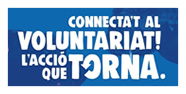
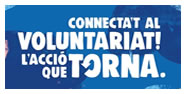
Finalitzats els darrers canvis i modificacions a aplicar al nou butlletí A l'Abast.

diff --git a/templates/node/node--butlleti_abast_new.tpl.php b/templates/node/node--butlleti_abast_new.tpl.php
@@ -2078,6 +2078,92 @@
 				<?php endforeach; ?>
 			<?php endif; ?>
 
+			<!-- Section: "Directe a" -->
+
+			<tr>
+				<td>
+					<table width="100%" border="0" cellspacing="0" cellpadding="0" align="left" class="content-news-text">
+						<tbody>
+							<tr>
+								<td>
+									<table width="100%" border="0" cellpadding="0" cellspacing="0">
+										<tbody>
+											<tr>
+												<td class="content-text">
+													<table border="0" cellspacing="0" cellpadding="0">
+														<tbody>
+															<tr>
+																<td vspace="0" style="padding: 20px 0px 0px 20px;">
+																	<h2 style="font-family: Open Sans, sans-serif; color: #333; font-size: 20px; text-decoration: none; font-weight: 600; padding-bottom: 0; margin-bottom: 0;">Directe a </h2>
+																</td>
+															</tr>
+															<tr>
+																<td>
+																	<table>
+																		<tbody>
+																			<tr>
+																				<td>
+																					<ul style="padding-left: 50px; padding-bottom: 15px;" class="download_pdf">
+																						<li style="color: #671013; margin-top: 15px">
+																							<!-- Auditoria Accesibilidad - Se inserta un "span" oculto en los enlaces que abren en una ventana nueva para que quede indicado -->
+																							<a style="font-family: Open Sans, sans-serif; font-size: 16px; color: #671013; font-weight: 600; text-decoration: none;" href="https://voluntariat.gencat.cat" target="_blank">El nostre web</a>
+																							<br>
+																							<span style="font-family: Open Sans, sans-serif; font-size: 14px; color: #333; font-weight: 400">
+																								<p>voluntariat.gencat.cat</p>
+																							</span>
+																						</li>
+																						<li style="color: #671013; margin-top: 15px">
+																							<!-- Auditoria Accesibilidad - Se inserta un "span" oculto en los enlaces que abren en una ventana nueva para que quede indicado -->
+																							<a style="font-family: Open Sans, sans-serif; font-size: 16px; color: #671013; font-weight: 600; text-decoration: none;" href="https://voluntariat.gencat.cat/persones-voluntaries/" target="_blank">Persones voluntàries</a>
+																							<br>
+																							<span style="font-family: Open Sans, sans-serif; font-size: 14px; color: #333; font-weight: 400">
+																								<p>Coneix els teus drets i deures</p>
+																							</span>
+																						</li>
+																						<li style="color: #671013; margin-top: 15px">
+																							<!-- Auditoria Accesibilidad - Se inserta un "span" oculto en los enlaces que abren en una ventana nueva para que quede indicado -->
+																							<a style="font-family: Open Sans, sans-serif; font-size: 16px; color: #671013; font-weight: 600; text-decoration: none;" href="https://voluntariat.gencat.cat/entitats/" target="_blank">Entitats</a>
+																							<br>
+																							<span style="font-family: Open Sans, sans-serif; font-size: 14px; color: #333; font-weight: 400">
+																								<p>Registra't al Cens d'entitats de voluntariat</p>
+																							</span>
+																						</li>
+																						<li style="color: #671013; margin-top: 15px">
+																							<!-- Auditoria Accesibilidad - Se inserta un "span" oculto en los enlaces que abren en una ventana nueva para que quede indicado -->
+																							<a style="font-family: Open Sans, sans-serif; font-size: 16px; color: #671013; font-weight: 600; text-decoration: none;" href="https://voluntariat.gencat.cat/administracions-publiques/" target="_blank">Administracions</a>
+																							<br>
+																							<span style="font-family: Open Sans, sans-serif; font-size: 14px; color: #333; font-weight: 400">
+																								<p>Suport i assessorament</p>
+																							</span>
+																						</li>
+																						<li style="color: #671013; margin-top: 15px">
+																							<!-- Auditoria Accesibilidad - Se inserta un "span" oculto en los enlaces que abren en una ventana nueva para que quede indicado -->
+																							<a style="font-family: Open Sans, sans-serif; font-size: 16px; color: #671013; font-weight: 600; text-decoration: none;" href="https://voluntariat.gencat.cat/recursos-i-serveis/" target="_blank">Recursos i serveis</a>
+																							<br>
+																							<span style="font-family: Open Sans, sans-serif; font-size: 14px; color: #333; font-weight: 400">
+																								<p>Serveis d'assessorament i acompanyament</p>
+																							</span>
+																						</li>
+																					</ul>
+																				</td>
+																			</tr>
+																		</tbody>
+																	</table>
+																</td>
+															</tr>
+														</tbody>
+													</table>
+												</td>
+											</tr>
+										</tbody>
+									</table>
+								</td>
+							</tr>
+						</tbody>
+					</table>
+				</td>
+			</tr>
+
 			<!-- Bottom content (3 columns) -->
 			
 			<tr>
@@ -2089,8 +2175,8 @@
 									<div style="position: relative; text-align:center">
 											<a style="text-decoration: none;" href="https://connectat.voluntariat.gencat.cat/inici">
 												<img style="max-width:100%" width="186" src="<?php print $path_root; ?>/sites/all/themes/xn17/assets/images/butlleti_a_labast/bottom_banner_1.jpg">
-												<div class="text-banners" style="font-family:'Open sans' !important; font-weight:800; line-height: 12px; color: #671013; font-size: 11px; text-decoration: none;">
-													<p style="margin-bottom: 0.2em; vertical-align: top; text-align: center" class="titol-banners">Connecta't al voluntariat</p>
+												<div class="text-banners" style="font-family:'Open sans' !important; font-weight:800; line-height: 12px; color: #671013; font-size: 12px; text-decoration: none;">
+													<p style="margin-bottom: 0.2em; vertical-align: top; text-align: center; font-weight: 600;" class="titol-banners">Connecta't al voluntariat</p>
 												</div>
 											</a>
 									</div>
@@ -2099,8 +2185,8 @@
 									<div style="position: relative; text-align:center">
 										<a style="text-decoration: none;" href="https://voluntariat.gencat.cat/persones-voluntaries/format-com-a-voluntari/pla-de-formacio/">
 											<img style="max-width:100%" width="186" src="<?php print $path_root; ?>/sites/all/themes/xn17/assets/images/butlleti_a_labast/bottom_banner_2.jpg">
-											<div class="text-banners" style="font-family:'Open sans' !important; font-weight:800; line-height: 12px; color: #671013; font-size: 11px; text-decoration: none;">
-												<p style="margin-bottom: 0.2em; vertical-align: top; text-align: center" class="titol-banners">Pla de Formació</p>
+											<div class="text-banners" style="font-family:'Open sans' !important; font-weight:800; line-height: 12px; color: #671013; font-size: 12px; text-decoration: none;">
+												<p style="margin-bottom: 0.2em; vertical-align: top; text-align: center; font-weight: 600;" class="titol-banners">Pla de Formació</p>
 											</div>
 										</a>
 									</div>
@@ -2109,8 +2195,8 @@
 									<div style="position: relative; text-align:center">
 										<a style="text-decoration: none;" href="https://voluntariat.gencat.cat/administracions-publiques/punts-de-voluntariat-local/">
 											<img style="max-width:100%" width="186" src="<?php print $path_root; ?>/sites/all/themes/xn17/assets/images/butlleti_a_labast/bottom_banner_3.jpg">
-											<div class="text-banners" style="font-family:'Open sans' !important; font-weight:800; line-height: 12px; color: #671013; font-size: 11px; text-decoration: none;">
-												<p style="margin-bottom: 0.2em; vertical-align: top; text-align: center" class="titol-banners">Punts de voluntariat local de Catalunya</p>
+											<div class="text-banners" style="font-family:'Open sans' !important; font-weight:800; line-height: 12px; color: #671013; font-size: 12px; text-decoration: none;">
+												<p style="margin-bottom: 0.2em; vertical-align: top; text-align: center; font-weight: 600;" class="titol-banners">Punts de voluntariat</p>
 											</div>
 										</a>
 									</div>

diff --git a/template.php b/template.php
@@ -110,8 +110,7 @@ function xn17_preprocess_node(&$variables) {
    * of the "A l'Abast newsletter", from a given release date
    */
 
-  // $release_on = '23-04-2020';
-  $release_on = '01-01-2030';
+  $release_on = '03-05-2020';
 
   if (isset($variables['node']) && $variables['node']->type == 'butlleti_abast_nou') {
     $node = $variables['node'];
